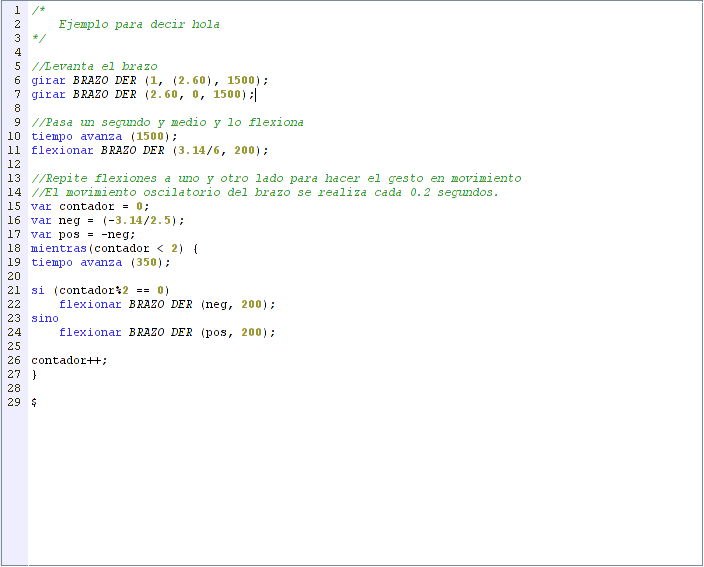
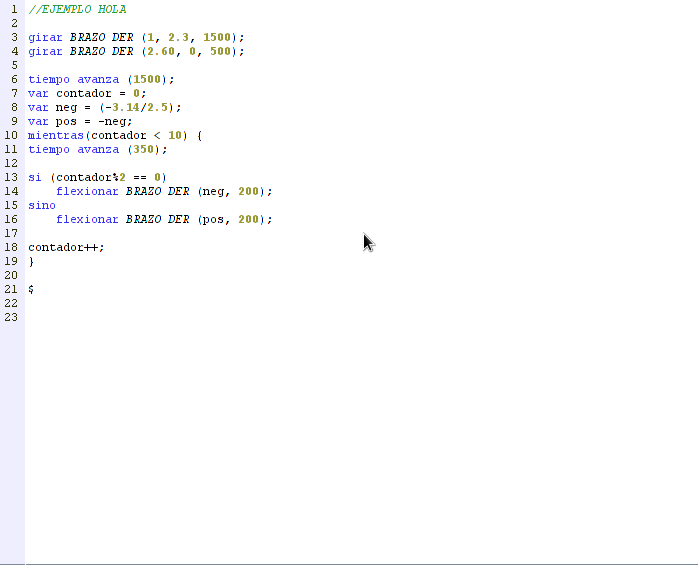
Cambiadas las rutas por defecto al abrir y guardar un fichero. Actualizado el ejemplo hola.stk.

diff --git a/src/gui/StickMotion.java b/src/gui/StickMotion.java
@@ -6,6 +6,7 @@ package gui;
 
 import java.awt.GraphicsConfiguration;
 import java.io.BufferedReader;
+import java.io.File;
 import java.io.FileReader;
 import java.io.FileWriter;
 import java.io.PrintWriter;
@@ -1005,6 +1006,7 @@ public class StickMotion extends javax.swing.JFrame {
    */
   private void optionFileSaveAsActionPerformed(java.awt.event.ActionEvent evt) {
     javax.swing.JFileChooser saveAs = new javax.swing.JFileChooser();
+    saveAs.setCurrentDirectory(new File("."));
     int opc = saveAs.showSaveDialog(this); // Show the dialog
 
     // Check if the "Ok" button was pressed
@@ -1133,6 +1135,7 @@ public class StickMotion extends javax.swing.JFrame {
    */
   private void optionFileLoadActionPerformed(java.awt.event.ActionEvent evt) {
     javax.swing.JFileChooser openAs = new javax.swing.JFileChooser();
+    openAs.setCurrentDirectory(new File("."));
     openAs.setFileSelectionMode(javax.swing.JFileChooser.FILES_AND_DIRECTORIES);
     // openAs.setAcceptAllFileFilterUsed(true);
     int opc = openAs.showOpenDialog(this); // The dialog is shown
